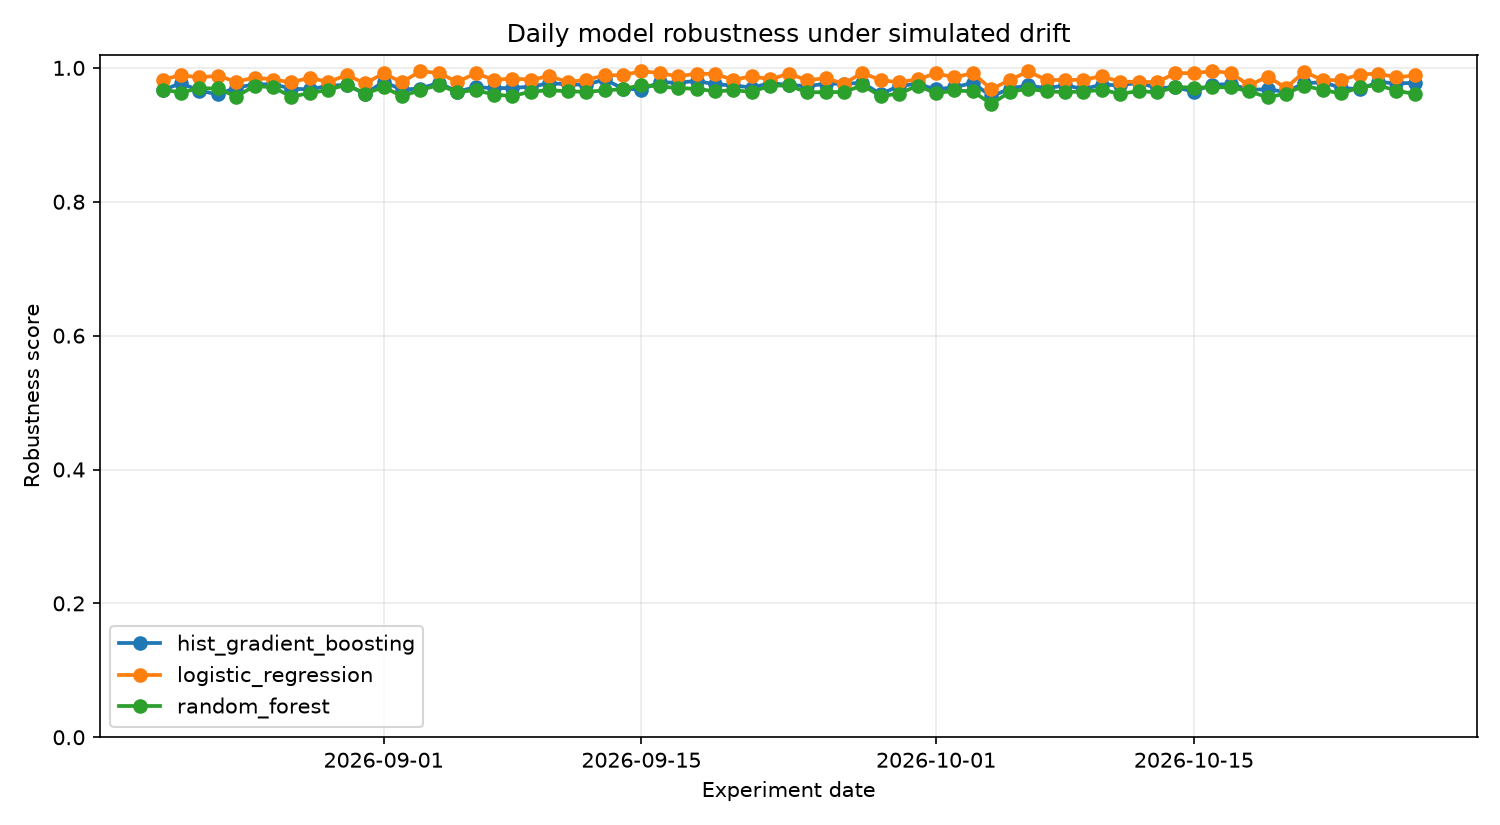
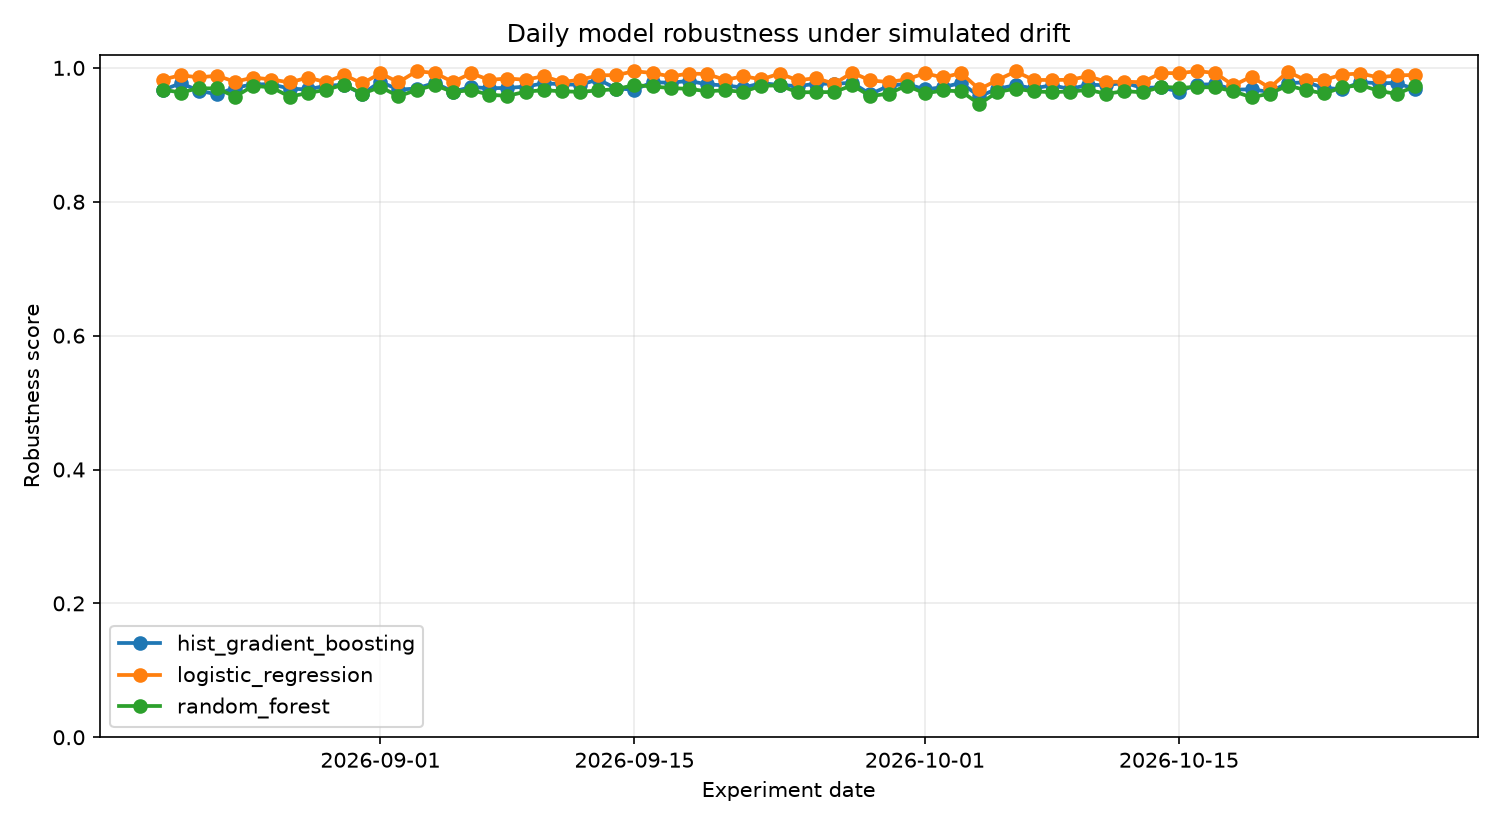
chore(observatory): daily drift benchmark 2026-10-28

diff --git a/reports/latest.md b/reports/latest.md
@@ -1,37 +1,37 @@
 # Latest DriftWatch Report
 
-**Experiment date:** 2026-10-27
+**Experiment date:** 2026-10-28
 
 ## Drift scenario
 
-- Drift strength: `0.507`
-- Scale factor: `1.051`
-- Noise ratio: `0.086`
-- Mask ratio: `0.023`
-- Affected features: mean perimeter, mean fractal dimension, compactness error, concavity error, concave points error, symmetry error, fractal dimension error, worst compactness
+- Drift strength: `0.444`
+- Scale factor: `0.956`
+- Noise ratio: `0.078`
+- Mask ratio: `0.021`
+- Affected features: mean smoothness, mean compactness, mean concave points, mean symmetry, texture error, perimeter error, worst area
 
 ## Model ranking
 
 | Rank | Model | Robustness | ROC-AUC | F1 | Balanced Acc. | Log Loss | Brier |
 |---:|---|---:|---:|---:|---:|---:|---:|
-| 1 | `logistic_regression` | 0.9887 | 0.9972 | 0.9860 | 0.9797 | 0.0711 | 0.0195 |
-| 2 | `hist_gradient_boosting` | 0.9775 | 0.9933 | 0.9725 | 0.9563 | 0.1055 | 0.0283 |
-| 3 | `random_forest` | 0.9611 | 0.9909 | 0.9434 | 0.9282 | 0.1379 | 0.0395 |
+| 1 | `logistic_regression` | 0.9895 | 0.9974 | 0.9859 | 0.9828 | 0.0681 | 0.0176 |
+| 2 | `random_forest` | 0.9723 | 0.9918 | 0.9683 | 0.9453 | 0.1374 | 0.0394 |
+| 3 | `hist_gradient_boosting` | 0.9681 | 0.9942 | 0.9593 | 0.9328 | 0.1399 | 0.0387 |
 
 ## Highest feature drift (PSI)
 
 | Feature | PSI |
 |---|---:|
-| fractal dimension error | 2.8123 |
-| concavity error | 1.7453 |
-| compactness error | 1.4652 |
-| symmetry error | 0.5114 |
-| concave points error | 0.4869 |
-| mean fractal dimension | 0.4718 |
-| worst compactness | 0.4686 |
-| mean perimeter | 0.3354 |
+| worst area | 0.4398 |
+| mean concave points | 0.3574 |
+| perimeter error | 0.3405 |
+| mean compactness | 0.2311 |
+| texture error | 0.1979 |
+| mean symmetry | 0.1768 |
+| mean texture | 0.1639 |
+| worst concavity | 0.1426 |
 
-**Mean PSI:** `0.3409`  
-**Max PSI:** `2.8123`
+**Mean PSI:** `0.1250`  
+**Max PSI:** `0.4398`
 
 _Generated automatically by the DriftWatch daily observatory pipeline._
